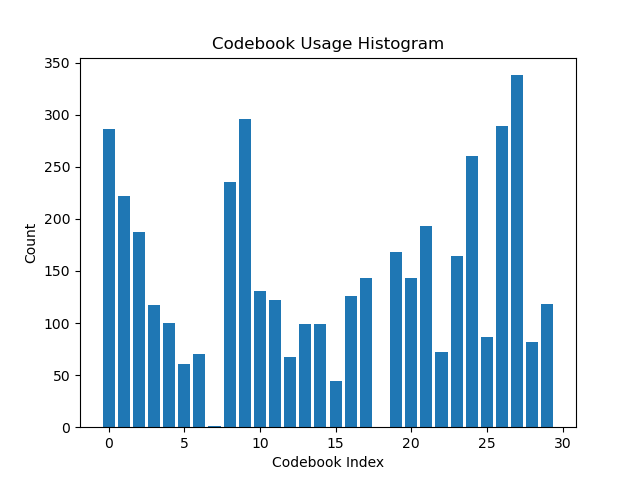
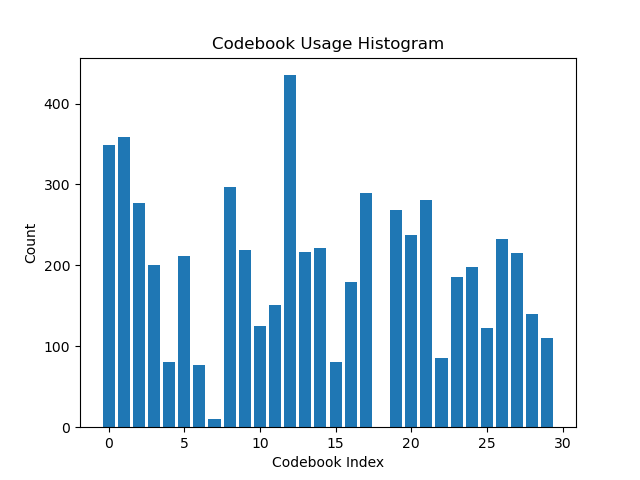
updated

diff --git a/src/models/tokenizer.py b/src/models/tokenizer.py
@@ -4,6 +4,7 @@ import torch.nn.functional as F
 import numpy as np
 import matplotlib.pyplot as plt
 import os
+import random
 
 class Tokenizer(nn.Module):
     def __init__(self, num_codebooks, save_dir="histogram_frames"):
@@ -12,6 +13,48 @@ class Tokenizer(nn.Module):
         self.save_dir = save_dir
         self.num_codebooks = num_codebooks
         self.codebook_usage = torch.zeros(self.num_codebooks)
+    
+    def randomly_keep_one_with_indices(self, tensor):
+        dtype = tensor.dtype
+        device = tensor.device
+        result = []
+        chosen_indices = []
+
+        for row_idx, row in enumerate(tensor):
+            filtered_row = []
+            row_indices = []
+            i = 0
+
+            while i < len(row):
+                value = row[i].item()
+                
+                # Detect consecutive duplicates
+                j = i + 1
+                while j < len(row) and row[j].item() == value:
+                    j += 1
+                
+                # Randomly select one index from the range
+                random_index = random.randint(i, j - 1)
+                filtered_row.append(row[random_index].item())
+                row_indices.append(random_index)  # Track chosen index
+                
+                # Move to next unique value
+                i = j
+
+            # Convert back to tensor
+            result.append(torch.tensor(filtered_row, dtype=dtype, device=device))
+            chosen_indices.append(row_indices)
+
+        # Pad to max length if necessary
+        max_len = max(len(row) for row in result)
+        final_result = []
+
+        for row in result:
+            padded_row = torch.cat([row, torch.zeros(max_len - len(row), dtype=dtype, device=device)])
+            final_result.append(padded_row)
+
+        return torch.stack(final_result), chosen_indices
+
            
     def forward(self, z, codebook, mask):
         """
@@ -61,6 +104,9 @@ class Tokenizer(nn.Module):
         z_q = z + (z_q - z).detach()
         
         min_encoding_indices = min_encoding_indices.view(z.shape[0], z.shape[1])
+        # print(min_encoding_indices[0].shape)
+        # print(self.randomly_keep_one_with_indices(min_encoding_indices)[0][0].shape)
+        # exit()
         
         codebook_prob = self.Codebook_usage(min_encoding_indices)
         
